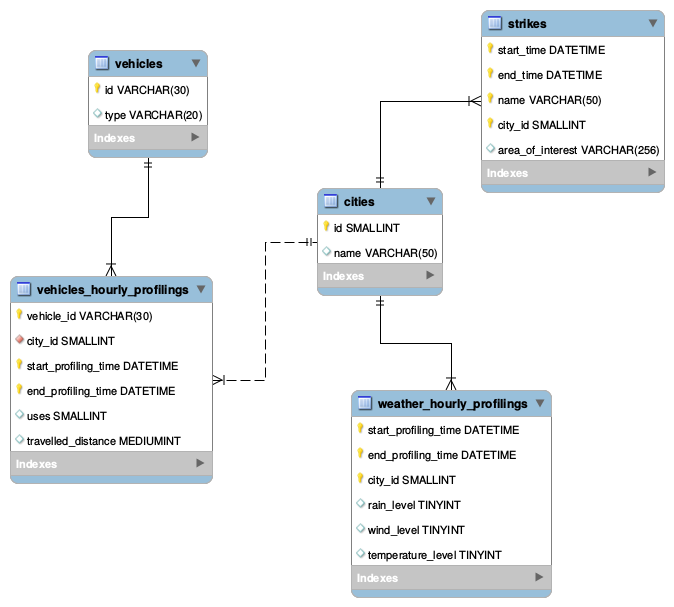
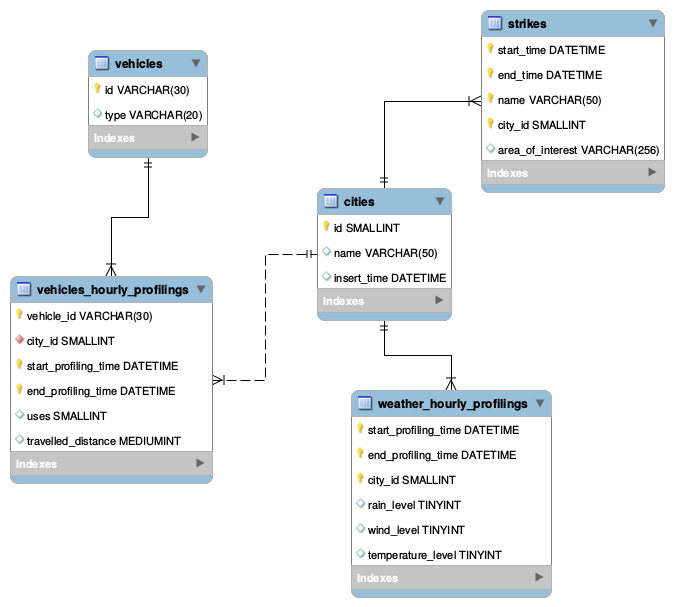
updated documentation

diff --git a/doc/data_mart.tex b/doc/data_mart.tex
@@ -1,0 +1,139 @@
+\chapter{Definizione e alimentazione Data Mart}
+
+\section{Progettazione Logica}
+
+A partire dal DFM di figura~\ref{fig:dfm} è stato realizzato lo schema
+logico del data warehouse rappresentato in figura~\ref{fig:logic}.
+La scelta è stata quella di utilizzare il modello \textit{ROLAP} e di
+implementare tale schema utilizzando il DBMS MySQL.
+Lo schema utilizzato è quello a \textit{stella} al quale sono state applicate
+delle variazioni al fine di eliminare alcune ridondanze e rendere più efficente
+in termini di spazio occupato le tabelle relative alle diverse dimensioni.
+Si scelgie di mantenere i dati all'interno dei data mart per un orizzonte
+temporale variabile tra i due e i 5 anni dalla data del loro inserimento.
+
+La tabella \textit{vehicle\_use} costituisce il fatto e ha per attributi:
+\begin{itemize}
+\item le dimensioni \textit{start\_time}, \textit{end\_time}, \textit{city} e
+\textit{vehicle\_type} che costituiscono insieme la chiave primaria della
+tabella e sono ognuna chiave di una tabella in relazione con quella in oggetto;
+\item le misure \textit{uses} e \textit{travelled\_distance};
+\item \textit{weather\_id} e \textit{strike\_id} chiavi rispettivamente per
+le tabelle \textit{weather} e \textit{strike}, attributi dimensionali della
+dimensione \textit{city} all'interno del DFM sono stati inseriti all'interno
+della tabella del fatto in qualità di attributi al fine di permettere in
+fase di interrogazione di poter risalire più agevolmente agli stessi.
+\end{itemize}
+
+Per la tabella \textit{weather} è stata aggiunta una chiave surrogata che ha
+permesso l'introduzione della relazione con la tabella del fatto, è stata
+mantenuta la relazione con la tabella \textit{city} mediante la chiave
+\textit{city\_id} e sono state eliminate le relazioni con la tabella
+\textit{date} presenti nel DFM. Quest'ultima modifica ha permesso di
+porre un vincolo di \java{UNIQUE} sulla tupla formata dagli attributi
+\textit{wind\_level}, \textit{temperature\_level} e \textit{rain\_level}
+evitando quindi di memorizzare più volte la stessa rilevazione per date
+differenti.
+
+La tabella \textit{date} ha come chiave primaria un attributo di tipo
+\java{DATETIME} e riporta una serie di attributi ricavati dalla data utilizzata
+come chiave quali \textit{day}, \textit{month}, \textit{year} e
+\textit{weekday}.
+si è scelto di creare tale tabella al fine di agevolare le interrogazioni, che
+necessitano di selezionare una fascia oraria e/o uno o più giorni della
+settimana, evitando di dover ricorrere all'uso di particolari funzioni del DBMS.
+
+La tabella \textit{strike} aggiunge un attributo \textit{id}, chiave surrogata 
+utile alla relazione con la tabella \textit{vehicle\_use}.
+
+La tabella \textit{city} rimane pressochè invariata rispetto alla controparte
+\textit{cities} appartenente allo schema riconcilato.
+
+Si noti inoltre la presenza della tabella \textit{etl\_execution\_run} il cui
+utilizzo è ristretto al processo di ETL descritto al paragrafo seguente.
+
+\begin{figure}[H]                                                                                                                                                            
+\centering                                                                                                                                                                   
+\includegraphics[width=\textwidth]{diagrams/logic}                                                                                                                                   
+\caption{DFM Vehicle use}                                                                                                                                            
+\label{fig:logic}                                                                                                                                                           
+\end{figure}
+
+\section{ETL da ODS a Data Mart}
+
+E' necessario applicare un processo di ETL al fine di popolare le tabelle del
+data mart definito al paragrafo precedente a partire dallo schema riconciliato
+di figura~\ref{fig:riconciliato_er}. Tale processo, similmente a quello definito
+per il popolamento dell'ODS a partire dai database delle singole sorgenti
+operazionali, è di tipo \textit{incremental delayed}; non essendo i dati
+precedentementente memorizzati all'interno del data mart soggetti ad aggiornamento,
+la procedura consiste nell'aggiunta dei nuovi record relativi alle profilazioni
+delle sorgenti Helbiz e Torinometeo e nell'aggiornamento sugli scioperi
+intervenuti a due giorni dalla data in cui avviene l'aggiornamento.
+
+La procedura prevede che il popolamento delle tabelle relative alle dimensioni
+ed ai relativi attributi avvenga prima del popolamento della tabella relativa
+al fatto al fine di non violare i vincoli di integrità referenziale definiti.
+
+La seguente procedura, implementata in uno script sql, è lanciata da un job di
+sistema ogni notte dopo la mezzanotte e fa seguito alla procedura di ETL
+da sorgenti a ODS definita al pragrafo~\ref{sec:etl_sorgenti_ODS}.
+
+\subsection{Popolamento tabelle dimensioni}
+
+Mediante una query sulla tabella \textit{etl\_execution\_run} del data mart
+viene ottenuta la data dell'ultima esecuzione del processo in oggetto e
+memorizzata in una variabile. Segue nell'ordine il popolamento delle tabelle:
+\begin{itemize}
+\item \textit{city:} a partire dalla tabella \textit{cities} dell'ODS vengono
+estratti i nomi delle città per le quali il valore della colonna
+\textit{insert\_time} di tale tabella risultino essere successivi a quelli 
+della data in memoria; ad ognuno dei record inseriti è associato un id
+numerico incrementale che costituisce la chiave surrogata;
+\item \textit{date:} a partire dalla tabella \textit{vehicle\_hourly\_profilings}
+vengono selezionati i record per i quali l'attributo
+\textit{start\_profiling\_time} risulta essere superiore alla data di ultimo
+popolamento in memoria; a partire dai valori della colonna
+\textit{start\_profiling\_time} vengono ottenuti per mezzo di funzioni del DBMS
+i valori relaitvi a giorno, mese, anno e giorno della settimana i quali
+corrisponderanno rispettivamente agli attributi \textit{day}, \textit{month},
+\textit{year} e \textit{weekday} del relativo record da inserirsi nella tabella
+in oggetto; l'attributo di origine costituirà invece la chiave primaria;
+\item \textit{strike:} vengono selezionati i record della tabella \textit{strikes}
+dell'ODS aventi un valore \textit{start\_time} maggiore o eguale a quello della
+data in memoria; all'interno della stessa query, viene eseguita una JOIN con la
+tabella \textit{cities} dell'ODS e un'altra JOIN con la tabella \textit{city}
+del data mart al fine di ottenere la chiave surrogata relativa alla città
+associata all'interno dell'ODS;
+\item \textit{weather:} vengono selezionati i record della tabella
+\textit{weather\_hourly\_profilings} aventi per l'attributo
+\textit{start\_profiling\_time} valore successivo a quello della data in memoria;
+come per il popolamento della tabella al punto precedente, nella stessa query,
+viene effettuata una JOIN con la tabella \textit{cities} dell'ODS ed una con la
+tabella \textit{city} al fine di ottenere la chiave surrogata relativa alla città
+associata all'interno dell'ODS.
+\end{itemize}
+
+\subsection{Popolamento tabella fatto}
+
+Viene eseguita una query sulla tabella \textit{vehicles\_hourly\_profilings}
+dell'ODS e vengono selezionati i record per i quali l'attributo
+\textit{start\_profiling\_time} risulta esssere antecedente alla data di ultimo
+popolamento presente in memoria. Per ottenere la chiave surrogata \textit{city\_id}
+viene effettuata una JOIN con la tabella \textit{city} ed una con la tabella
+\textit{cities} dell'ODS. La stessa cosa avviene per la chiave surrogata
+\textit{weather\_id} che viene recuperata mediante una JOIN con la tabella
+\textit{weather} e con la tabella \textit{weather\_hourly\_profilings}.
+Per quanto riguarda la chiave \textit{weather\_id} essa è ottenuta per mezzo
+dell'operazione di LEFT JOIN con la tabella \textit{weather} specificando
+come condizione che gli attributi \textit{start\_profiling\_time} e ì
+\textit{end\_profiling\_time} della tabella \textit{vehicles\_hourly\_profilings}
+siano contenuti nell'intervallo definito dagli attributi \textit{start\_time} e
+\textit{end\_time} della tabella \textit{strike} dell'ODS. Infatti, come anticipato
+alla descrizione dello schema logico del data mart, mentre per ogni record della
+tabella del fatto corrisponde un record della tabella \textit{weather} ciò non
+vale per la tabella \textit{strike} dato che non ad ogni giorno del periodo
+temporale analizzato è associato uno sciopero.
+
+La procedura di ETL termina con l'inserimento della data di esecuzione nella
+tabella \textit{etl\_execution\_run}.

diff --git a/doc/riconciliazione.tex b/doc/riconciliazione.tex
@@ -192,11 +192,14 @@ ad essa relazionate. Tale attributo è poi parte della chiave primaria per le
 tabelle \textit{strikes} e \textit{weather\_hourly\_profilings}.
 
 Diversamente da quanto fatto in fase di progettazione dello schema logico della
-sorgente operazionale, considerata la necessità per la base date in oggetto
-di conservare i dati sulle profilazioni per un orizzonte temporale lungo che ricada
-nell'intervallo tra 5 e 10 anni dal loro inserimento, si è scelto di rappresentare 
-le entità \textit{Vehicle} e \textit{Vehicles\_hourly\_profilings} con due
-le relazioni eliminando la ridondanza dell'attributo \textit{type}. 
+sorgente operazionale, si è scelto di rappresentare le entità \textit{Vehicle}
+e \textit{Vehicles\_hourly\_profilings} con due le relazioni eliminando la
+ridondanza dell'attributo \textit{type}. 
+
+Si noti inoltre la presenza dell'attributo \textit{insert\_time} per la
+tabella \textit{cities}, verrà fatto riferomento allo stesso nelle due procedure
+di ETL; nello specifico esso sarà popolato durante la fase di popolamento
+dell'ODS e sarà letto nella fase di popolamento dei data mart.
 
 \begin{figure}[H]                                                                                                                                                            
 \centering                                                                                                                                                                   
